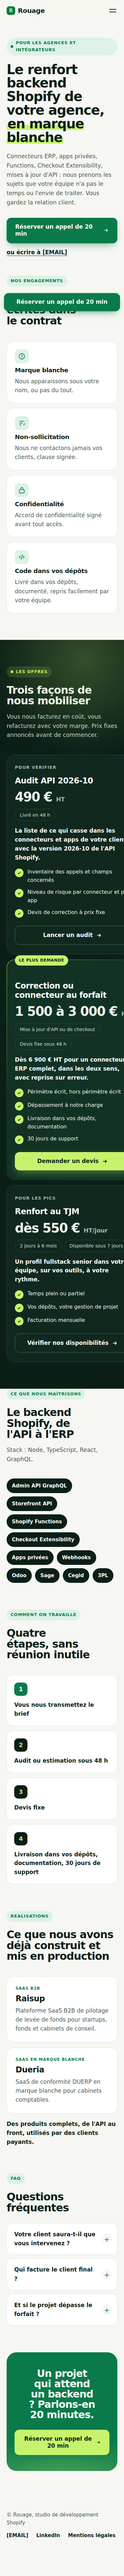
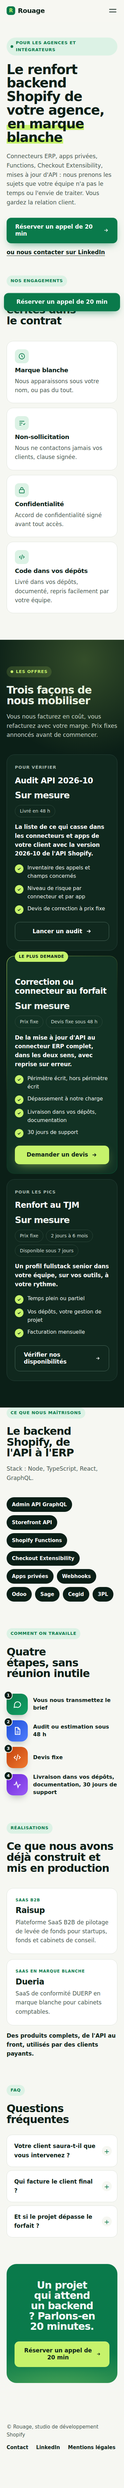
Prix sur mesure, étapes colorées, contact sans email visible, responsive tablette
Claude-Session: https://claude.ai/code/session_01ERjPNUzkxskTuGjvPgUDYN

Changed region(s): [[0.0, 0.0, 1.0, 0.996], [0.9387, 0.3112, 0.968, 0.3735], [0.7333, 0.1867, 0.7627, 0.2179]]

diff --git a/shopify/src/index.html b/shopify/src/index.html
@@ -71,17 +71,17 @@
 <div class="erp-offer">
 <p class="tier-k">Connecteur sur mesure</p>
 <h3>Odoo ou Sage ↔ Shopify</h3>
-<div class="price">dès 6 900 € <small>HT</small></div>
+<div class="price">Sur mesure</div>
 <div class="meta"><span class="pill">Prix fixe après audit</span><span class="pill">4 à 6 semaines</span></div>
 <ul class="incl">
 <li><i><svg width="14" height="14" viewBox="0 0 24 24" fill="none" stroke="currentColor" stroke-width="3" aria-hidden="true"><path d="M5 12.5l4.5 4.5L19 7.5"/></svg></i>Commandes, stock, clients, factures, dans les deux sens</li>
 <li><i><svg width="14" height="14" viewBox="0 0 24 24" fill="none" stroke="currentColor" stroke-width="3" aria-hidden="true"><path d="M5 12.5l4.5 4.5L19 7.5"/></svg></i>Règles métier à vous : multi-entrepôts, tarifs B2B, TVA, séries</li>
 <li><i><svg width="14" height="14" viewBox="0 0 24 24" fill="none" stroke="currentColor" stroke-width="3" aria-hidden="true"><path d="M5 12.5l4.5 4.5L19 7.5"/></svg></i>Reprise sur erreur et journal de chaque échange, rien ne se perd</li>
 <li><i><svg width="14" height="14" viewBox="0 0 24 24" fill="none" stroke="currentColor" stroke-width="3" aria-hidden="true"><path d="M5 12.5l4.5 4.5L19 7.5"/></svg></i>Pas d'abonnement à un connecteur tiers : le code vous appartient</li>
-<li><i><svg width="14" height="14" viewBox="0 0 24 24" fill="none" stroke="currentColor" stroke-width="3" aria-hidden="true"><path d="M5 12.5l4.5 4.5L19 7.5"/></svg></i>Maintenance et suivi des versions API : dès 490 € HT/mois</li>
+<li><i><svg width="14" height="14" viewBox="0 0 24 24" fill="none" stroke="currentColor" stroke-width="3" aria-hidden="true"><path d="M5 12.5l4.5 4.5L19 7.5"/></svg></i>Maintenance et suivi des versions API, au forfait mensuel</li>
 </ul>
 <a class="btn" href="{{LIEN_CAL}}">Parler de mon ERP <svg width="18" height="18" viewBox="0 0 24 24" fill="none" stroke="currentColor" stroke-width="2.4" aria-hidden="true"><path d="M5 12h14M13 6l6 6-6 6"/></svg></a>
-<p class="erp-note">Vous avez déjà un connecteur qui ne couvre pas vos cas ? L'audit à 490 € HT dit ce qu'il faut garder, remplacer ou compléter.</p>
+<p class="erp-note">Vous avez déjà un connecteur qui ne couvre pas vos cas ? L'audit dit ce qu'il faut garder, remplacer ou compléter.</p>
 </div>
 </div>
 <div class="erp-why">
@@ -111,18 +111,18 @@
 <section class="offer" id="offre"><div class="wrap">
 <div class="sec-head"><div><span class="tag"><span class="dot"></span>Les offres</span><h2>Trois façons de travailler ensemble</h2></div><p>Prix fixes, délais annoncés, aucun dépassement facturé. On commence petit, on continue si ça vous fait gagner du temps.</p></div>
 <div class="urgent" id="api">
-<div><p class="urgent-k">API Shopify 2026-10</p><h3>Vos connecteurs sont-ils à jour ? Audit en 48 h, 490 € HT</h3><p>La version 2026-10 de l'API Shopify supprime ou déprécie des champs utilisés par les connecteurs ERP et les apps privées : codes-barres des variantes, inventaire, filtres de metafields, remises sur brouillons de commande. Nous listons ce qui va casser chez vous et chiffrons la correction à prix fixe.</p></div>
+<div><p class="urgent-k">API Shopify 2026-10</p><h3>Vos connecteurs sont-ils à jour ? Audit en 48 h, prix fixe</h3><p>La version 2026-10 de l'API Shopify supprime ou déprécie des champs utilisés par les connecteurs ERP et les apps privées : codes-barres des variantes, inventaire, filtres de metafields, remises sur brouillons de commande. Nous listons ce qui va casser chez vous et chiffrons la correction à prix fixe.</p></div>
 <a class="btn" href="{{LIEN_CAL}}">Vérifier mes connecteurs <svg width="18" height="18" viewBox="0 0 24 24" fill="none" stroke="currentColor" stroke-width="2.4" aria-hidden="true"><path d="M5 12h14M13 6l6 6-6 6"/></svg></a>
 </div>
 <div class="urgent" id="checkout">
-<div><p class="urgent-k">Depuis le 26 août 2026</p><h3>Suivi de conversion cassé depuis le 26 août ? Réparation en 3 jours, 1 500 € HT</h3><p>Depuis le 26 août 2026, Shopify a désactivé les scripts additionnels des pages de remerciement et de suivi de commande. Si votre pixel, votre GTM ou vos codes de suivi ne remontent plus les ventes, nous migrons tout vers Checkout Extensibility et les Web Pixels, à prix fixe.</p></div>
+<div><p class="urgent-k">Depuis le 26 août 2026</p><h3>Suivi de conversion cassé depuis le 26 août ? Réparation en 3 jours, prix fixe</h3><p>Depuis le 26 août 2026, Shopify a désactivé les scripts additionnels des pages de remerciement et de suivi de commande. Si votre pixel, votre GTM ou vos codes de suivi ne remontent plus les ventes, nous migrons tout vers Checkout Extensibility et les Web Pixels, à prix fixe.</p></div>
 <a class="btn" href="{{LIEN_CAL}}">Vérifier mon checkout <svg width="18" height="18" viewBox="0 0 24 24" fill="none" stroke="currentColor" stroke-width="2.4" aria-hidden="true"><path d="M5 12h14M13 6l6 6-6 6"/></svg></a>
 </div>
 <div class="tiers">
 <article class="tier">
 <p class="tier-k">Pour commencer</p>
 <h3>Audit automatisation</h3>
-<div class="price">490 € <small>HT</small></div>
+<div class="price">Sur mesure</div>
 <div class="meta"><span class="pill">Livré en 5 jours</span><span class="pill">Déduit du Sprint</span></div>
 <p class="promise">La carte de vos process manuels, chiffrés en heures perdues, avec les 3 automatisations les plus rentables à lancer.</p>
 <ul class="incl"><li><i><svg width="14" height="14" viewBox="0 0 24 24" fill="none" stroke="currentColor" stroke-width="3" aria-hidden="true"><path d="M5 12.5l4.5 4.5L19 7.5"/></svg></i>Atelier 1 h avec votre équipe</li><li><i><svg width="14" height="14" viewBox="0 0 24 24" fill="none" stroke="currentColor" stroke-width="3" aria-hidden="true"><path d="M5 12.5l4.5 4.5L19 7.5"/></svg></i>Audit de vos apps et flux (stock, commandes, SAV, compta)</li><li><i><svg width="14" height="14" viewBox="0 0 24 24" fill="none" stroke="currentColor" stroke-width="3" aria-hidden="true"><path d="M5 12.5l4.5 4.5L19 7.5"/></svg></i>Plan d'action priorisé avec devis fixe</li><li><i><svg width="14" height="14" viewBox="0 0 24 24" fill="none" stroke="currentColor" stroke-width="3" aria-hidden="true"><path d="M5 12.5l4.5 4.5L19 7.5"/></svg></i>Montant déduit si vous enchaînez sur un Sprint</li></ul>
@@ -131,7 +131,7 @@
 <article class="tier hot">
 <p class="tier-k">Le plus demandé</p>
 <h3>Sprint automatisation</h3>
-<div class="price">2 490 € <small>HT</small></div>
+<div class="price">Sur mesure</div>
 <div class="meta"><span class="pill">5 jours</span><span class="pill">Forfait fixe</span></div>
 <p class="promise">Un process manuel identifié, codé, testé et livré en production.</p>
 <ul class="incl"><li><i><svg width="14" height="14" viewBox="0 0 24 24" fill="none" stroke="currentColor" stroke-width="3" aria-hidden="true"><path d="M5 12.5l4.5 4.5L19 7.5"/></svg></i>Audit inclus</li><li><i><svg width="14" height="14" viewBox="0 0 24 24" fill="none" stroke="currentColor" stroke-width="3" aria-hidden="true"><path d="M5 12.5l4.5 4.5L19 7.5"/></svg></i>Développement sur mesure (Shopify API, Flow, apps, ERP, 3PL)</li><li><i><svg width="14" height="14" viewBox="0 0 24 24" fill="none" stroke="currentColor" stroke-width="3" aria-hidden="true"><path d="M5 12.5l4.5 4.5L19 7.5"/></svg></i>Mise en production et tests avec votre équipe</li><li><i><svg width="14" height="14" viewBox="0 0 24 24" fill="none" stroke="currentColor" stroke-width="3" aria-hidden="true"><path d="M5 12.5l4.5 4.5L19 7.5"/></svg></i>Documentation</li><li><i><svg width="14" height="14" viewBox="0 0 24 24" fill="none" stroke="currentColor" stroke-width="3" aria-hidden="true"><path d="M5 12.5l4.5 4.5L19 7.5"/></svg></i>30 jours de support</li></ul>
@@ -140,7 +140,7 @@
 <article class="tier">
 <p class="tier-k">Pour durer</p>
 <h3>Rouage Continu</h3>
-<div class="price">1 490 € <small>HT/mois</small></div>
+<div class="price">Sur mesure</div>
 <div class="meta"><span class="pill">3 jours de dev par mois</span><span class="pill">Sans engagement</span></div>
 <p class="promise">Votre équipe tech à la demande : nouvelles automatisations, évolutions, surveillance de ce qui tourne.</p>
 <ul class="incl"><li><i><svg width="14" height="14" viewBox="0 0 24 24" fill="none" stroke="currentColor" stroke-width="3" aria-hidden="true"><path d="M5 12.5l4.5 4.5L19 7.5"/></svg></i>Backlog partagé, priorisé chaque mois</li><li><i><svg width="14" height="14" viewBox="0 0 24 24" fill="none" stroke="currentColor" stroke-width="3" aria-hidden="true"><path d="M5 12.5l4.5 4.5L19 7.5"/></svg></i>Jours non utilisés reportés au mois suivant</li><li><i><svg width="14" height="14" viewBox="0 0 24 24" fill="none" stroke="currentColor" stroke-width="3" aria-hidden="true"><path d="M5 12.5l4.5 4.5L19 7.5"/></svg></i>Correctifs sous 48 h ouvrées</li><li><i><svg width="14" height="14" viewBox="0 0 24 24" fill="none" stroke="currentColor" stroke-width="3" aria-hidden="true"><path d="M5 12.5l4.5 4.5L19 7.5"/></svg></i>Point mensuel et rapport</li><li><i><svg width="14" height="14" viewBox="0 0 24 24" fill="none" stroke="currentColor" stroke-width="3" aria-hidden="true"><path d="M5 12.5l4.5 4.5L19 7.5"/></svg></i>Pause ou arrêt à tout moment</li></ul>
@@ -152,12 +152,7 @@
 
 <section id="methode" class="how"><div class="wrap">
 <div class="sec-head"><div><span class="tag">Comment ça marche</span><h2>Quatre étapes, zéro surprise</h2></div></div>
-<ol class="steps">
-<li>Appel découverte de 30 min : on identifie votre process le plus chronophage</li>
-<li>Devis forfaitaire sous 48h, pas de TJM surprise</li>
-<li>Sprint de 5 jours, vous suivez l'avancement</li>
-<li>Livraison, documentation et support</li>
-</ol>
+<ol class="steps"><li class="s1"><span class="step-n"><b>1</b><svg viewBox="0 0 24 24" fill="none" stroke="currentColor" stroke-width="2" aria-hidden="true"><path d="M21 12a8 8 0 0 1-11.6 7.1L4 20l1-4.6A8 8 0 1 1 21 12z"/></svg></span><span class="step-t">Appel découverte de 30 min : on identifie votre process le plus chronophage</span></li><li class="s2"><span class="step-n"><b>2</b><svg viewBox="0 0 24 24" fill="none" stroke="currentColor" stroke-width="2" aria-hidden="true"><path d="M7 3h7l5 5v13H7z"/><path d="M14 3v5h5M10 13h6M10 17h6"/></svg></span><span class="step-t">Devis forfaitaire sous 48h, pas de TJM surprise</span></li><li class="s3"><span class="step-n"><b>3</b><svg viewBox="0 0 24 24" fill="none" stroke="currentColor" stroke-width="2" aria-hidden="true"><path d="M8 8l-4 4 4 4M16 8l4 4-4 4M14 4l-4 16"/></svg></span><span class="step-t">Sprint de 5 jours, vous suivez l'avancement</span></li><li class="s4"><span class="step-n"><b>4</b><svg viewBox="0 0 24 24" fill="none" stroke="currentColor" stroke-width="2" aria-hidden="true"><path d="M3 12h4l3-7 4 14 3-7h4"/></svg></span><span class="step-t">Livraison, documentation et support</span></li></ol>
 </div></section>
 
 <section id="realisations" class="works" style="padding-top:0"><div class="wrap">

diff --git a/shopify/src/agences.html b/shopify/src/agences.html
@@ -4,7 +4,7 @@
 <meta charset="utf-8">
 <meta name="viewport" content="width=device-width,initial-scale=1">
 <title>Rouage pour les agences | Renfort backend Shopify en marque blanche</title>
-<meta name="description" content="Renfort backend Shopify en marque blanche pour agences et intégrateurs : connecteurs ERP, apps privées, Functions, Checkout Extensibility, mises à jour d'API. Audit API 2026-10 en 48 h, forfaits fixes, TJM dès 550 € HT.">
+<meta name="description" content="Renfort backend Shopify en marque blanche pour agences et intégrateurs : connecteurs ERP, apps privées, Functions, Checkout Extensibility, mises à jour d'API. Audit API 2026-10 en 48 h, forfaits à prix fixe, renfort au TJM.">
 <link rel="canonical" href="{{DOMAINE}}/agences.html">
 <meta property="og:type" content="website">
 <meta property="og:locale" content="fr_FR">
@@ -31,7 +31,7 @@
 <span class="tag"><span class="dot"></span>Pour les agences et intégrateurs</span>
 <h1 class="split">Le renfort backend Shopify de votre agence, <span class="hl">en marque blanche</span></h1>
 <p class="lead">Connecteurs ERP, apps privées, Functions, Checkout Extensibility, mises à jour d'API : nous prenons les sujets que votre équipe n'a pas le temps ou l'envie de traiter. Vous gardez la relation client.</p>
-<div class="hero-ctas"><a class="btn" href="{{LIEN_CAL}}">Réserver un appel de 20 min <svg width="18" height="18" viewBox="0 0 24 24" fill="none" stroke="currentColor" stroke-width="2.4" aria-hidden="true"><path d="M5 12h14M13 6l6 6-6 6"/></svg></a><a class="link-sec" href="mailto:{{EMAIL}}">ou écrire à {{EMAIL}}</a></div>
+<div class="hero-ctas"><a class="btn" href="{{LIEN_CAL}}">Réserver un appel de 20 min <svg width="18" height="18" viewBox="0 0 24 24" fill="none" stroke="currentColor" stroke-width="2.4" aria-hidden="true"><path d="M5 12h14M13 6l6 6-6 6"/></svg></a><a class="link-sec" href="{{LINKEDIN}}" rel="noopener">ou nous contacter sur LinkedIn</a></div>
 </div></section>
 
 <section id="engagements" class="commit" style="padding-top:0"><div class="wrap">
@@ -50,7 +50,7 @@
 <article class="tier">
 <p class="tier-k">Pour vérifier</p>
 <h3>Audit API 2026-10</h3>
-<div class="price">490 € <small>HT</small></div>
+<div class="price">Sur mesure</div>
 <div class="meta"><span class="pill">Livré en 48 h</span></div>
 <p class="promise">La liste de ce qui casse dans les connecteurs et apps de votre client avec la version 2026-10 de l'API Shopify.</p>
 <ul class="incl"><li><i><svg width="14" height="14" viewBox="0 0 24 24" fill="none" stroke="currentColor" stroke-width="3" aria-hidden="true"><path d="M5 12.5l4.5 4.5L19 7.5"/></svg></i>Inventaire des appels et champs concernés</li><li><i><svg width="14" height="14" viewBox="0 0 24 24" fill="none" stroke="currentColor" stroke-width="3" aria-hidden="true"><path d="M5 12.5l4.5 4.5L19 7.5"/></svg></i>Niveau de risque par connecteur et par app</li><li><i><svg width="14" height="14" viewBox="0 0 24 24" fill="none" stroke="currentColor" stroke-width="3" aria-hidden="true"><path d="M5 12.5l4.5 4.5L19 7.5"/></svg></i>Devis de correction à prix fixe</li></ul>
@@ -59,17 +59,17 @@
 <article class="tier hot">
 <p class="tier-k">Le plus demandé</p>
 <h3>Correction ou connecteur au forfait</h3>
-<div class="price">1 500 à 3 000 € <small>HT</small></div>
-<div class="meta"><span class="pill">Mise à jour d'API ou de checkout</span><span class="pill">Devis fixe sous 48 h</span></div>
-<p class="promise">Dès 6 900 € HT pour un connecteur ERP complet, dans les deux sens, avec reprise sur erreur.</p>
+<div class="price">Sur mesure</div>
+<div class="meta"><span class="pill">Prix fixe</span><span class="pill">Devis fixe sous 48 h</span></div>
+<p class="promise">De la mise à jour d'API au connecteur ERP complet, dans les deux sens, avec reprise sur erreur.</p>
 <ul class="incl"><li><i><svg width="14" height="14" viewBox="0 0 24 24" fill="none" stroke="currentColor" stroke-width="3" aria-hidden="true"><path d="M5 12.5l4.5 4.5L19 7.5"/></svg></i>Périmètre écrit, hors périmètre écrit</li><li><i><svg width="14" height="14" viewBox="0 0 24 24" fill="none" stroke="currentColor" stroke-width="3" aria-hidden="true"><path d="M5 12.5l4.5 4.5L19 7.5"/></svg></i>Dépassement à notre charge</li><li><i><svg width="14" height="14" viewBox="0 0 24 24" fill="none" stroke="currentColor" stroke-width="3" aria-hidden="true"><path d="M5 12.5l4.5 4.5L19 7.5"/></svg></i>Livraison dans vos dépôts, documentation</li><li><i><svg width="14" height="14" viewBox="0 0 24 24" fill="none" stroke="currentColor" stroke-width="3" aria-hidden="true"><path d="M5 12.5l4.5 4.5L19 7.5"/></svg></i>30 jours de support</li></ul>
 <a class="btn" href="{{LIEN_CAL}}">Demander un devis <svg width="18" height="18" viewBox="0 0 24 24" fill="none" stroke="currentColor" stroke-width="2.4" aria-hidden="true"><path d="M5 12h14M13 6l6 6-6 6"/></svg></a>
 </article>
 <article class="tier">
 <p class="tier-k">Pour les pics</p>
 <h3>Renfort au TJM</h3>
-<div class="price">dès 550 € <small>HT/jour</small></div>
-<div class="meta"><span class="pill">2 jours à 6 mois</span><span class="pill">Disponible sous 7 jours</span></div>
+<div class="price">Sur mesure</div>
+<div class="meta"><span class="pill">Prix fixe</span><span class="pill">2 jours à 6 mois</span><span class="pill">Disponible sous 7 jours</span></div>
 <p class="promise">Un profil fullstack senior dans votre équipe, sur vos outils, à votre rythme.</p>
 <ul class="incl"><li><i><svg width="14" height="14" viewBox="0 0 24 24" fill="none" stroke="currentColor" stroke-width="3" aria-hidden="true"><path d="M5 12.5l4.5 4.5L19 7.5"/></svg></i>Temps plein ou partiel</li><li><i><svg width="14" height="14" viewBox="0 0 24 24" fill="none" stroke="currentColor" stroke-width="3" aria-hidden="true"><path d="M5 12.5l4.5 4.5L19 7.5"/></svg></i>Vos dépôts, votre gestion de projet</li><li><i><svg width="14" height="14" viewBox="0 0 24 24" fill="none" stroke="currentColor" stroke-width="3" aria-hidden="true"><path d="M5 12.5l4.5 4.5L19 7.5"/></svg></i>Facturation mensuelle</li></ul>
 <a class="btn ghost" href="{{LIEN_CAL}}">Vérifier nos disponibilités <svg width="18" height="18" viewBox="0 0 24 24" fill="none" stroke="currentColor" stroke-width="2.4" aria-hidden="true"><path d="M5 12h14M13 6l6 6-6 6"/></svg></a>
@@ -86,12 +86,7 @@
 
 <section id="methode" class="how" style="padding-top:0"><div class="wrap">
 <div class="sec-head"><div><span class="tag">Comment on travaille</span><h2>Quatre étapes, sans réunion inutile</h2></div></div>
-<ol class="steps">
-<li>Vous nous transmettez le brief</li>
-<li>Audit ou estimation sous 48 h</li>
-<li>Devis fixe</li>
-<li>Livraison dans vos dépôts, documentation, 30 jours de support</li>
-</ol>
+<ol class="steps"><li class="s1"><span class="step-n"><b>1</b><svg viewBox="0 0 24 24" fill="none" stroke="currentColor" stroke-width="2" aria-hidden="true"><path d="M21 12a8 8 0 0 1-11.6 7.1L4 20l1-4.6A8 8 0 1 1 21 12z"/></svg></span><span class="step-t">Vous nous transmettez le brief</span></li><li class="s2"><span class="step-n"><b>2</b><svg viewBox="0 0 24 24" fill="none" stroke="currentColor" stroke-width="2" aria-hidden="true"><path d="M7 3h7l5 5v13H7z"/><path d="M14 3v5h5M10 13h6M10 17h6"/></svg></span><span class="step-t">Audit ou estimation sous 48 h</span></li><li class="s3"><span class="step-n"><b>3</b><svg viewBox="0 0 24 24" fill="none" stroke="currentColor" stroke-width="2" aria-hidden="true"><path d="M8 8l-4 4 4 4M16 8l4 4-4 4M14 4l-4 16"/></svg></span><span class="step-t">Devis fixe</span></li><li class="s4"><span class="step-n"><b>4</b><svg viewBox="0 0 24 24" fill="none" stroke="currentColor" stroke-width="2" aria-hidden="true"><path d="M3 12h4l3-7 4 14 3-7h4"/></svg></span><span class="step-t">Livraison dans vos dépôts, documentation, 30 jours de support</span></li></ol>
 </div></section>
 
 <section id="realisations" class="works" style="padding-top:0"><div class="wrap">

diff --git a/shopify/src/style.css b/shopify/src/style.css
@@ -175,7 +175,7 @@ header.top.sc{border-bottom-color:var(--line);box-shadow:0 8px 24px -18px rgba(1
 .open .burger span:first-child{transform:translateY(4px) rotate(45deg)}
 .open .burger span:last-child{transform:translateY(-4px) rotate(-45deg)}
 header.top .navcta{display:none}
-@media(max-width:759px){
+@media(max-width:1023px){
  .menu{display:flex;flex-direction:column;position:absolute;top:64px;left:0;right:0;background:var(--bg);border-bottom:1px solid var(--line);padding:8px 16px 18px;clip-path:inset(0 0 100% 0);transition:clip-path .45s cubic-bezier(.7,0,.2,1);visibility:hidden}
  .open .menu{clip-path:inset(0 0 0 0);visibility:visible}
  .menu a{font-family:var(--disp);font-size:1.6rem;letter-spacing:-.02em;padding:10px 4px;opacity:0;transform:translateY(-8px);transition:opacity .3s,transform .3s}
@@ -183,7 +183,7 @@ header.top .navcta{display:none}
  .open .menu a:nth-child(2){transition-delay:.05s}.open .menu a:nth-child(3){transition-delay:.1s}.open .menu a:nth-child(4){transition-delay:.15s}
  .menu a::after{display:none}
 }
-@media(min-width:760px){.menu{display:flex}.burger{display:none}header.top .navcta{display:inline-block}}
+@media(min-width:1024px){.menu{display:flex}.burger{display:none}header.top .navcta{display:inline-block}}
 .split .w{display:inline-block}
 .split.go .w{animation:wordIn .7s cubic-bezier(.2,.8,.2,1) both}
 @keyframes wordIn{from{opacity:0;transform:translateY(.45em) rotate(2deg);filter:blur(6px)}}
@@ -305,3 +305,39 @@ details[open] p{animation:up .4s both}
 .chips{list-style:none;padding:0;margin:0;display:flex;flex-wrap:wrap;gap:10px}
 .chips li{background:var(--ink);color:#fff;font-weight:600;font-size:15px;padding:10px 16px;border-radius:999px}
 @media(min-width:760px){.agency-short{padding-block:0 72px}.agency-short .agency-box{padding:40px 48px}.works-grid{grid-template-columns:1fr 1fr;gap:20px}.duo .photo{width:180px;height:180px}.duo .p2{margin-left:-40px}.commit-grid{grid-template-columns:repeat(4,1fr)}.hero-agency{padding-block:80px 96px}}
+/* v4 : étapes colorées, prix sur mesure, responsive intermédiaire */
+.price{font-size:clamp(1.7rem,4.6vw,2.3rem)!important}
+.tier .price,.erp-offer .price{font-size:clamp(1.7rem,4.6vw,2.3rem)!important}
+.steps{gap:16px}
+.steps li{padding:0;border:0;background:transparent;display:grid;grid-template-columns:auto 1fr;gap:16px;align-items:center}
+.steps li::before{display:none}
+.step-n{position:relative;width:64px;height:64px;border-radius:20px;display:grid;place-items:center;color:#fff;flex:none;box-shadow:0 12px 24px -12px rgba(11,31,23,.45)}
+.step-n svg{width:28px;height:28px}
+.step-n b{position:absolute;top:-8px;left:-8px;width:26px;height:26px;border-radius:50%;background:var(--ink);color:#fff;font-size:13px;font-weight:800;display:grid;place-items:center;font-family:var(--disp);border:2px solid var(--bg)}
+.s1 .step-n{background:linear-gradient(135deg,#0a7a4b,#13a265)}
+.s2 .step-n{background:linear-gradient(135deg,#1f4fd6,#4f7dff)}
+.s3 .step-n{background:linear-gradient(135deg,#c2410c,#f0792f)}
+.s4 .step-n{background:linear-gradient(135deg,#6d28d9,#9b5cf6)}
+.step-t{font-size:1.02rem;font-weight:550;line-height:1.4}
+@media(min-width:760px){
+ .steps{grid-template-columns:1fr 1fr;gap:20px}
+ .steps li{grid-template-columns:1fr;gap:18px;align-content:start;background:var(--paper);border:1px solid var(--line);border-radius:22px;padding:26px;position:relative;overflow:hidden}
+ .steps li::after{content:"";position:absolute;inset:auto -30px -30px auto;width:120px;height:120px;border-radius:50%;opacity:.12}
+ .s1::after{background:#0a7a4b}.s2::after{background:#1f4fd6}.s3::after{background:#c2410c}.s4::after{background:#6d28d9}
+ .tiers{grid-template-columns:1fr}
+ .tier.hot{transform:none}
+ .commit-grid{grid-template-columns:1fr 1fr}
+ .hero-grid{grid-template-columns:1fr;gap:40px}
+ .erp-grid{grid-template-columns:1fr}
+ .erp-flow{grid-template-columns:auto 1fr auto}
+ .works-grid{grid-template-columns:1fr 1fr}
+}
+@media(min-width:1024px){
+ .steps{grid-template-columns:repeat(4,1fr)}
+ .tiers{grid-template-columns:repeat(3,1fr)}
+ .tier.hot{transform:translateY(-12px)}
+ .commit-grid{grid-template-columns:repeat(4,1fr)}
+ .hero-grid{grid-template-columns:1.15fr 1fr;gap:64px}
+ .erp-grid{grid-template-columns:1.15fr 1fr}
+}
+@media(min-width:760px) and (max-width:1023px){.sec-head{grid-template-columns:1fr}.faq-grid{grid-template-columns:1fr;gap:28px}.about-card{grid-template-columns:1fr;gap:28px}.agency-box{grid-template-columns:1fr;gap:20px}.offer-box{grid-template-columns:1fr}}

diff --git a/shopify/src/footer.html b/shopify/src/footer.html
@@ -1,4 +1,4 @@
 <footer><div class="wrap">
 <span>© {{STUDIO}}, studio de développement Shopify</span>
-<nav aria-label="Liens"><a href="mailto:{{EMAIL}}">{{EMAIL}}</a><a href="{{LINKEDIN}}" rel="noopener">LinkedIn</a><a href="mentions-legales.html">Mentions légales</a></nav>
+<nav aria-label="Liens"><a href="mailto:{{EMAIL}}">Contact</a><a href="{{LINKEDIN}}" rel="noopener">LinkedIn</a><a href="mentions-legales.html">Mentions légales</a></nav>
 </div></footer>
